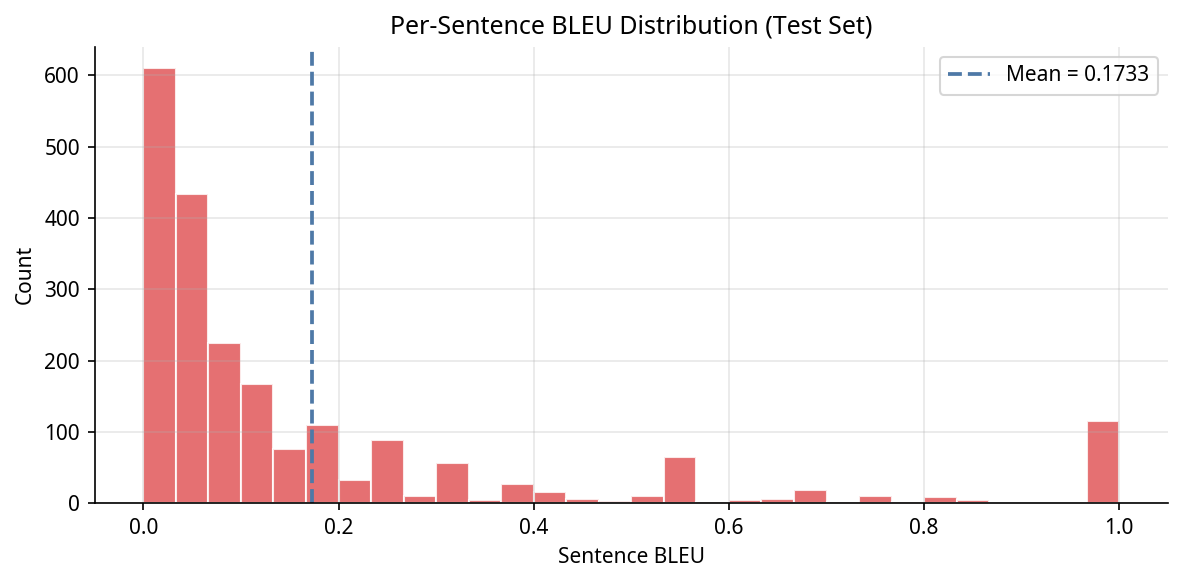
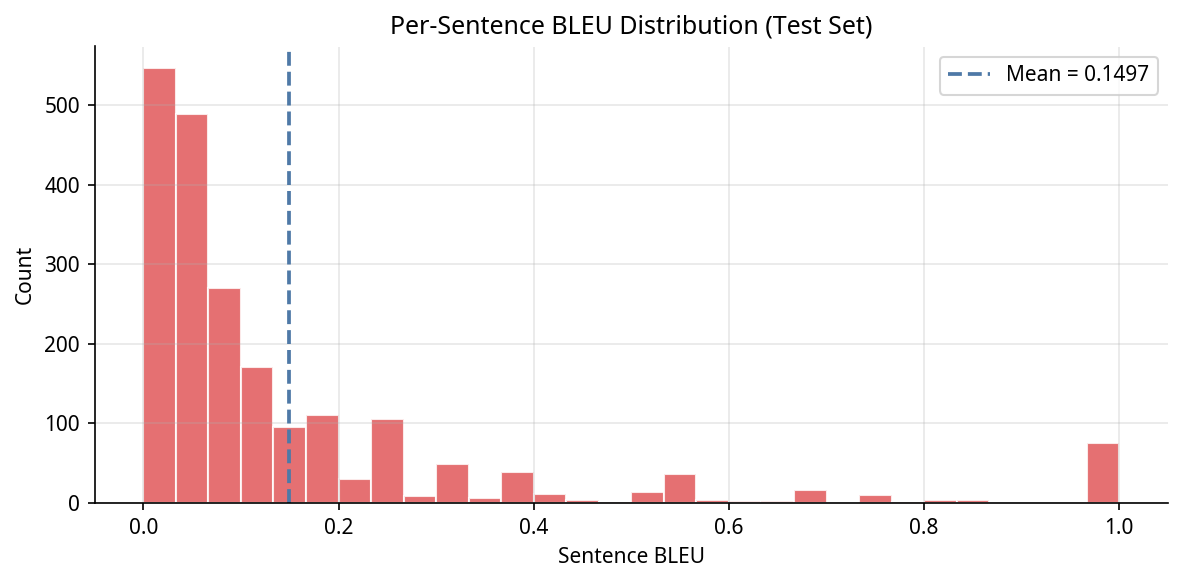
fixes

diff --git a/Final Project DL/seq2seq_bengali.py b/Final Project DL/seq2seq_bengali.py
@@ -3,15 +3,13 @@
 #
 #  Task 2.3: Sequence-to-Sequence encoder-decoder using LSTMs.
 #
-#  Architecture (simplest viable design):
-#    - 1-layer LSTM encoder (256 units)
-#    - 1-layer LSTM decoder (256 units) with teacher forcing
+#  Architecture:
+#    - Bidirectional LSTM encoder
+#    - LSTM decoder with additive attention and teacher forcing
 #    - Separate embedding layers for each language (dim=64)
-#  Justification: Only ~5 000 training pairs with short sentences
-#  (avg < 8 tokens).  A single layer per side avoids overfitting while
-#  still learning useful alignments.  256 units is the smallest power-of-two
-#  that handles Bengali morphological complexity; 64-dim embeddings match
-#  the small vocabulary sizes.
+#  Justification: The plain encoder-decoder was producing fluent but
+#  semantically wrong sentences. Attention improves source-target alignment,
+#  especially on multi-word Bengali inputs.
 #
 #  BENGALI FONT SETUP (required to display Bengali characters in plots):
 #    macOS:   brew install font-noto-sans-bengali
@@ -42,15 +40,24 @@ import matplotlib.font_manager as fm
 
 import tensorflow as tf
 from tensorflow.keras.models              import Model
-from tensorflow.keras.layers              import Input, Embedding, LSTM, Dense
+from tensorflow.keras.layers              import (
+    Input, Embedding, LSTM, Dense, Bidirectional, AdditiveAttention, Concatenate
+)
+from tensorflow.keras.callbacks           import EarlyStopping, ReduceLROnPlateau
 from tensorflow.keras.preprocessing.text  import Tokenizer
 from tensorflow.keras.preprocessing.sequence import pad_sequences
 from sklearn.model_selection              import train_test_split
 from nltk.translate.bleu_score            import corpus_bleu, sentence_bleu, SmoothingFunction
 
+try:
+    from tensorflow.keras.optimizers.legacy import Adam
+except ImportError:
+    from tensorflow.keras.optimizers import Adam
+
 # ── reproducibility ──────────────────────────────────────────────────────────
 np.random.seed(42)
 tf.random.set_seed(42)
+SEED = 42
 
 # =============================================================================
 #  PATHS
@@ -70,6 +77,11 @@ LSTM_UNITS    = 256
 BATCH_SIZE    = 64
 EPOCHS        = 50
 TEST_SIZE     = 0.30
+VAL_SIZE      = 0.10
+DROPOUT       = 0.25
+RECURRENT_DROPOUT = 0.10
+LEARNING_RATE = 1e-3
+CLIPNORM      = 1.0
 MAX_VOCAB_BEN = 8000   # Bengali morphology inflates vocabulary
 MAX_VOCAB_ENG = 5000   # cap rare English words
 
@@ -180,6 +192,34 @@ def preprocess(pairs):
     return ben_sentences, eng_sentences
 
 
+def shuffle_parallel(source_sentences, target_sentences, seed=SEED):
+    """Apply the same random permutation to both languages."""
+    rng = np.random.default_rng(seed)
+    indices = rng.permutation(len(source_sentences))
+    src = [source_sentences[i] for i in indices]
+    tgt = [target_sentences[i] for i in indices]
+    return src, tgt
+
+
+def length_buckets(source_sentences, target_sentences):
+    """
+    Coarse sentence-length buckets used for more balanced train/val/test splits.
+    This avoids a split that is dominated by only very short or very long pairs.
+    """
+    buckets = []
+    for src, tgt in zip(source_sentences, target_sentences):
+        total_len = len(src.split()) + len(tgt.split())
+        if total_len <= 4:
+            buckets.append('very_short')
+        elif total_len <= 8:
+            buckets.append('short')
+        elif total_len <= 12:
+            buckets.append('medium')
+        else:
+            buckets.append('long')
+    return buckets
+
+
 # =============================================================================
 #  3. TOKENISATION & PADDING
 # =============================================================================
@@ -198,52 +238,81 @@ def build_model(enc_vocab, dec_vocab):
     """
     Returns the training model and the two inference sub-models.
     Encoder reads Bengali; decoder generates English.
-    Architecture: single-layer LSTM encoder + single-layer LSTM decoder.
+    Architecture: bidirectional LSTM encoder + attention-based LSTM decoder.
     """
+    encoder_half_units = LSTM_UNITS // 2
+
     # ── Shared layer objects (reused by inference models) ────────────────────
     enc_emb_layer  = Embedding(enc_vocab, EMBEDDING_DIM, name='enc_embedding',
                                 mask_zero=True)
-    enc_lstm_layer = LSTM(LSTM_UNITS, return_state=True, name='enc_lstm')
+    enc_lstm_layer = Bidirectional(
+        LSTM(
+            encoder_half_units,
+            return_sequences=True,
+            return_state=True,
+            dropout=DROPOUT,
+            recurrent_dropout=RECURRENT_DROPOUT,
+        ),
+        name='enc_bi_lstm'
+    )
 
     dec_emb_layer  = Embedding(dec_vocab, EMBEDDING_DIM, name='dec_embedding',
                                 mask_zero=True)
-    dec_lstm_layer = LSTM(LSTM_UNITS, return_sequences=True, return_state=True,
-                          name='dec_lstm')
+    dec_lstm_layer = LSTM(
+        LSTM_UNITS,
+        return_sequences=True,
+        return_state=True,
+        dropout=DROPOUT,
+        recurrent_dropout=RECURRENT_DROPOUT,
+        name='dec_lstm'
+    )
+    attention_layer = AdditiveAttention(name='attention')
+    concat_layer    = Concatenate(axis=-1, name='context_concat')
+    proj_layer      = Dense(LSTM_UNITS, activation='tanh', name='context_projection')
     dec_dense      = Dense(dec_vocab, activation='softmax', name='dec_output')
 
     # ── Training model (teacher forcing) ─────────────────────────────────────
-    enc_in               = Input(shape=(None,), name='encoder_input')
-    enc_emb              = enc_emb_layer(enc_in)
-    _, state_h, state_c  = enc_lstm_layer(enc_emb)
-    enc_states           = [state_h, state_c]
+    enc_in                       = Input(shape=(None,), name='encoder_input')
+    enc_emb                      = enc_emb_layer(enc_in)
+    enc_out_seq, fh, fc, bh, bc  = enc_lstm_layer(enc_emb)
+    state_h                      = Concatenate(name='enc_state_h')([fh, bh])
+    state_c                      = Concatenate(name='enc_state_c')([fc, bc])
+    enc_states                   = [state_h, state_c]
 
     dec_in                    = Input(shape=(None,), name='decoder_input')
     dec_emb                   = dec_emb_layer(dec_in)
     dec_out_seq, _, _         = dec_lstm_layer(dec_emb, initial_state=enc_states)
-    dec_out                   = dec_dense(dec_out_seq)
+    context_seq               = attention_layer([dec_out_seq, enc_out_seq])
+    dec_context               = concat_layer([dec_out_seq, context_seq])
+    dec_context               = proj_layer(dec_context)
+    dec_out                   = dec_dense(dec_context)
 
     training_model = Model([enc_in, dec_in], dec_out)
     training_model.compile(
-        optimizer='adam',
+        optimizer=Adam(learning_rate=LEARNING_RATE, clipnorm=CLIPNORM),
         loss='sparse_categorical_crossentropy',
         metrics=['accuracy']
     )
 
     # ── Inference encoder ─────────────────────────────────────────────────────
-    encoder_model = Model(enc_in, enc_states)
+    encoder_model = Model(enc_in, [enc_out_seq] + enc_states)
 
     # ── Inference decoder (one step at a time) ────────────────────────────────
     dec_state_h_in = Input(shape=(LSTM_UNITS,), name='dec_state_h_in')
     dec_state_c_in = Input(shape=(LSTM_UNITS,), name='dec_state_c_in')
+    enc_out_in     = Input(shape=(None, LSTM_UNITS), name='enc_out_in')
     dec_states_in  = [dec_state_h_in, dec_state_c_in]
 
     dec_single_emb       = dec_emb_layer(dec_in)
     dec_single_out, h, c = dec_lstm_layer(dec_single_emb,
                                           initial_state=dec_states_in)
-    dec_single_dense     = dec_dense(dec_single_out)
+    context_single       = attention_layer([dec_single_out, enc_out_in])
+    dec_single_context   = concat_layer([dec_single_out, context_single])
+    dec_single_context   = proj_layer(dec_single_context)
+    dec_single_dense     = dec_dense(dec_single_context)
 
     decoder_model = Model(
-        [dec_in] + dec_states_in,
+        [dec_in, enc_out_in] + dec_states_in,
         [dec_single_dense, h, c]
     )
 
@@ -263,6 +332,19 @@ def make_decoder_targets(dec_sequences):
     return dec_in, dec_tgt
 
 
+def make_dataset(enc_seq, dec_in_seq, dec_tgt_seq, batch_size,
+                 shuffle=False, seed=SEED):
+    """Build a tf.data pipeline with optional per-epoch shuffling."""
+    dataset = tf.data.Dataset.from_tensor_slices(((enc_seq, dec_in_seq), dec_tgt_seq))
+    if shuffle:
+        dataset = dataset.shuffle(
+            buffer_size=len(enc_seq),
+            seed=seed,
+            reshuffle_each_iteration=True
+        )
+    return dataset.batch(batch_size).prefetch(tf.data.AUTOTUNE)
+
+
 # =============================================================================
 #  6. GREEDY INFERENCE
 # =============================================================================
@@ -279,9 +361,8 @@ def translate(sentence, encoder_model, decoder_model,
     seq = tf.constant(
         pad_sequences(seq, maxlen=encoder_model.input_shape[1], padding='post')
     )
-    states = encoder_model(seq, training=False)
-    # encoder returns [state_h, state_c]
-    states = list(states) if not isinstance(states, list) else states
+    enc_outputs, state_h, state_c = encoder_model(seq, training=False)
+    states = [state_h, state_c]
 
     # start token
     start_idx = eng_tok.word_index.get(START_TOKEN, 1)
@@ -291,7 +372,7 @@ def translate(sentence, encoder_model, decoder_model,
     decoded_tokens = []
 
     for _ in range(max_dec_len):
-        output, h, c = decoder_model([target_seq] + states, training=False)
+        output, h, c = decoder_model([target_seq, enc_outputs] + states, training=False)
         token_idx = int(tf.argmax(output[0, -1, :]))
         if token_idx == end_idx or token_idx == 0:
             break
@@ -405,14 +486,31 @@ if __name__ == '__main__':
     ben_sents, eng_sents = preprocess(raw_pairs)
     print(f"    {len(ben_sents):,} valid pairs after cleaning")
 
-    # ── 3. Train / test split (70 / 30) ──────────────────────────────────────
-    print(f"\n[3] Splitting data (test = {int(TEST_SIZE*100)}%) ...")
-    (ben_train, ben_test,
-     eng_train, eng_test) = train_test_split(
-        ben_sents, eng_sents,
-        test_size=TEST_SIZE, random_state=42
+    # ── 3. Shuffle + train / val / test split ────────────────────────────────
+    print(f"\n[3] Shuffling sentence pairs before splitting ...")
+    ben_sents, eng_sents = shuffle_parallel(ben_sents, eng_sents, seed=SEED)
+
+    print(f"    Splitting data (test = {int(TEST_SIZE*100)}%, val = {int(VAL_SIZE*100)}% of train) ...")
+    all_buckets = length_buckets(ben_sents, eng_sents)
+    (ben_train_full, ben_test,
+     eng_train_full, eng_test,
+     train_buckets, _) = train_test_split(
+        ben_sents, eng_sents, all_buckets,
+        test_size=TEST_SIZE,
+        random_state=SEED,
+        stratify=all_buckets,
+        shuffle=True
     )
-    print(f"    Train: {len(ben_train):,}  |  Test: {len(ben_test):,}")
+
+    (ben_train, ben_val,
+     eng_train, eng_val) = train_test_split(
+        ben_train_full, eng_train_full,
+        test_size=VAL_SIZE,
+        random_state=SEED,
+        stratify=train_buckets,
+        shuffle=True
+    )
+    print(f"    Train: {len(ben_train):,}  |  Val: {len(ben_val):,}  |  Test: {len(ben_test):,}")
 
     # ── 4. Tokenise ───────────────────────────────────────────────────────────
     print("\n[4] Building tokenisers ...")
@@ -435,8 +533,13 @@ if __name__ == '__main__':
         ben_tok.texts_to_sequences(ben_train), maxlen=max_enc, padding='post')
     dec_train_seq = pad_sequences(
         eng_tok.texts_to_sequences(eng_train), maxlen=max_dec, padding='post')
+    enc_val_seq = pad_sequences(
+        ben_tok.texts_to_sequences(ben_val), maxlen=max_enc, padding='post')
+    dec_val_seq = pad_sequences(
+        eng_tok.texts_to_sequences(eng_val), maxlen=max_dec, padding='post')
 
     dec_in_train, dec_tgt_train = make_decoder_targets(dec_train_seq)
+    dec_in_val, dec_tgt_val = make_decoder_targets(dec_val_seq)
 
     # ── 6. Build model ────────────────────────────────────────────────────────
     print("\n[6] Building seq2seq model ...")
@@ -445,14 +548,33 @@ if __name__ == '__main__':
 
     # ── 7. Train ──────────────────────────────────────────────────────────────
     print(f"\n[7] Training for {EPOCHS} epochs (batch={BATCH_SIZE}) ...")
-    history = training_model.fit(
-        [enc_train_seq, dec_in_train],
-        dec_tgt_train,
-        epochs=EPOCHS,
-        batch_size=BATCH_SIZE,
-        validation_split=0.1,
-        verbose=1
+    train_ds = make_dataset(
+        enc_train_seq, dec_in_train, dec_tgt_train,
+        batch_size=BATCH_SIZE, shuffle=True, seed=SEED
     )
+    val_ds = make_dataset(
+        enc_val_seq, dec_in_val, dec_tgt_val,
+        batch_size=BATCH_SIZE, shuffle=False, seed=SEED
+    )
+    callbacks = [
+        EarlyStopping(
+            monitor='val_loss',
+            patience=6,
+            restore_best_weights=True,
+            verbose=1
+        ),
+        ReduceLROnPlateau(
+            monitor='val_loss',
+            factor=0.5,
+            patience=3,
+            min_lr=1e-5,
+            verbose=1
+        ),
+    ]
+    history = training_model.fit(train_ds, epochs=EPOCHS,
+                                 validation_data=val_ds,
+                                 callbacks=callbacks,
+                                 verbose=1)
 
     # ── 8. Example translations ───────────────────────────────────────────────
     # Bengali input sentences with their known English meanings
@@ -516,13 +638,12 @@ if __name__ == '__main__':
     print(f"  Epochs                      : {EPOCHS}")
     print("=" * 70)
     print("\nArchitecture justification:")
-    print("  Single-layer LSTM encoder/decoder: the corpus has only ~5 000")
-    print("  training pairs with short sentences (avg < 8 tokens). Stacking")
-    print("  LSTM layers would add parameters without enough data to train")
-    print("  them, risking overfitting. One layer per side is sufficient to")
-    print("  capture the sentence-level context needed for this dataset.")
-    print("  256 units: smallest power-of-two that handles Bengali morphology")
-    print("  (rich suffixing); 64-dim embeddings match vocabulary sizes < 5K.")
-    print("  Bengali → English is slightly easier than the reverse because")
-    print("  English output has a smaller, more regular vocabulary.")
+    print("  Bidirectional encoder + additive attention: the plain seq2seq")
+    print("  model was generating fluent but semantically wrong English.")
+    print("  Attention lets the decoder focus on relevant Bengali words")
+    print("  during each output step, which is more suitable for translation.")
+    print("  Dropout, gradient clipping, learning-rate reduction, and early")
+    print("  stopping are used to control overfitting on this small corpus.")
+    print("  256 decoder units and 64-dim embeddings remain compact enough")
+    print("  for the dataset while still modeling short multi-word inputs.")
     print("=" * 70)